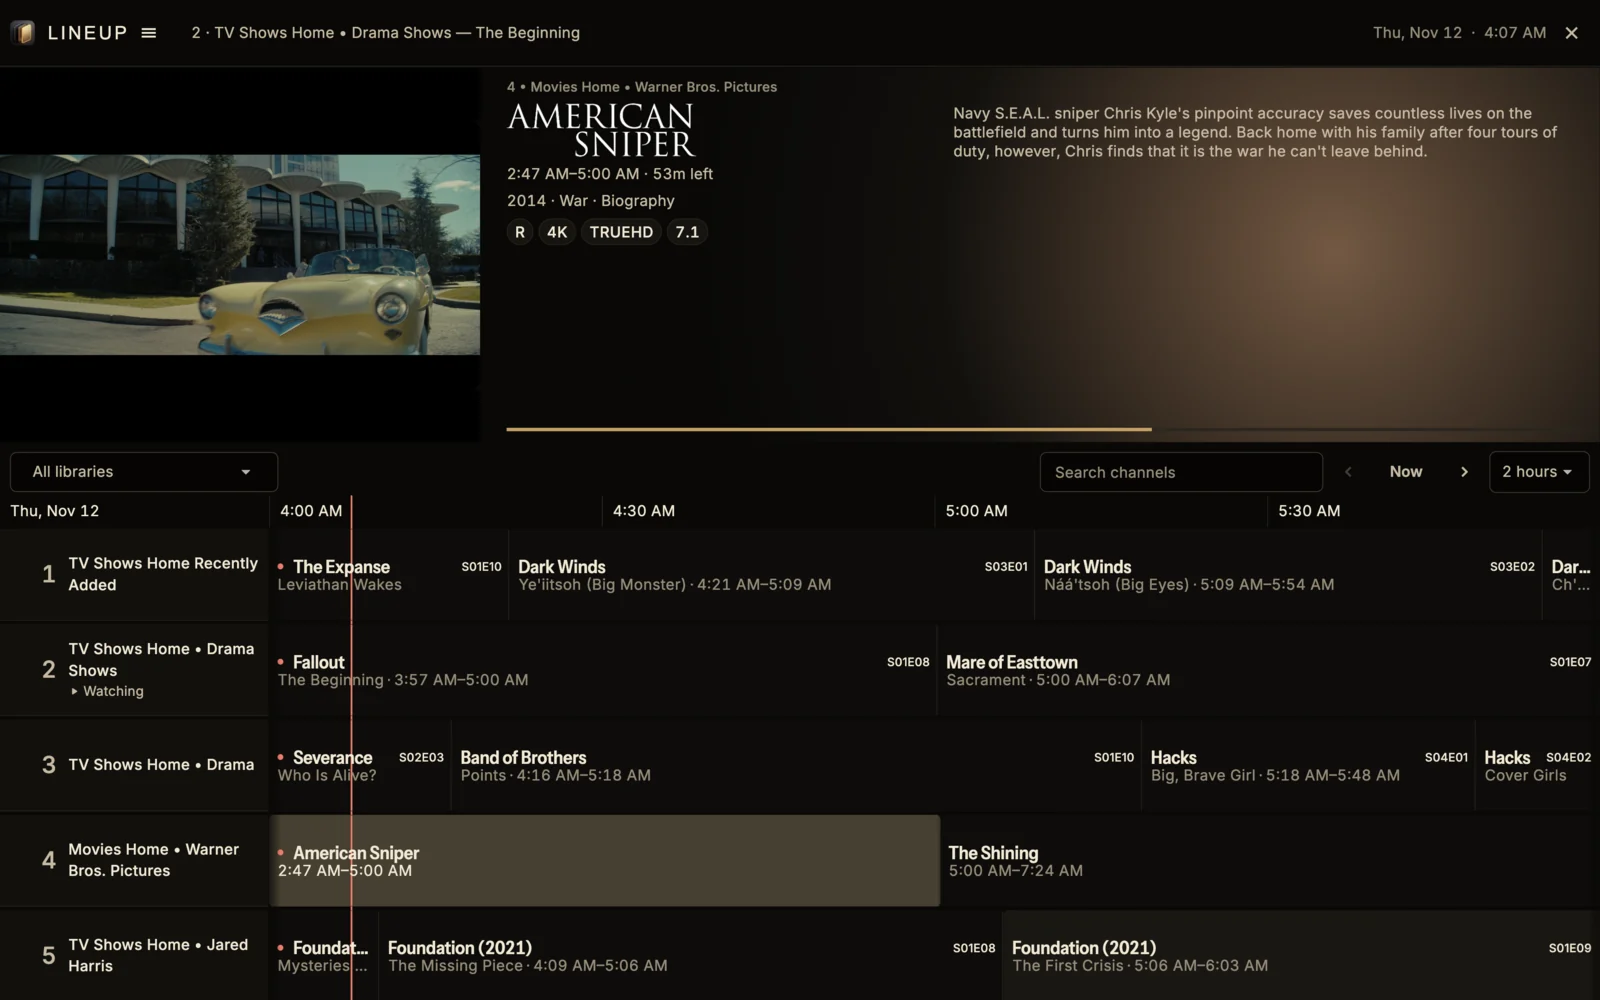
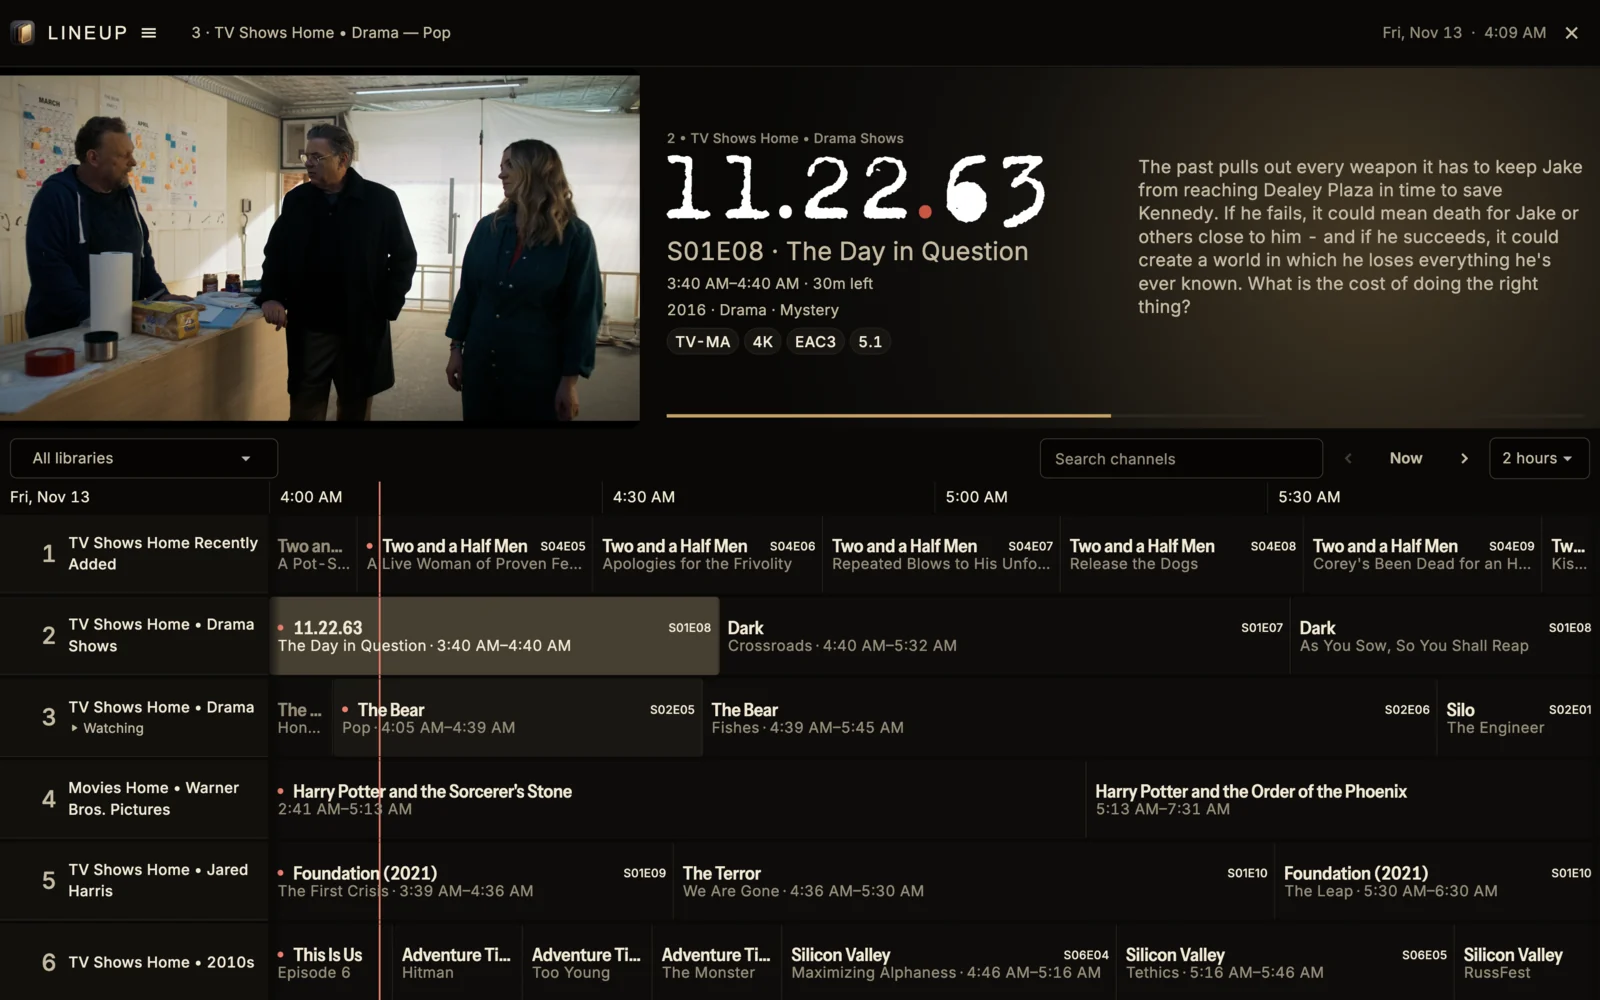
docs(site): retake the Mac Guide screenshots on the L40 layout
Replace the home hero and The Guide page screenshots with captures from the
L40 build on a MacBook Pro 16 (larger picture, six rows), and update their
alt text and capture record.

diff --git a/tool/docs/overrides/home.html b/tool/docs/overrides/home.html
@@ -23,7 +23,7 @@
       </div>
     </div>
     <figure class="lu-frame">
-      <img src="{{ 'images/home-guide.webp' | url }}" alt="Lineup Guide with Fallout playing in the corner and its details above a five-channel schedule." width="1600" height="1000">
+      <img src="{{ 'images/home-guide.webp' | url }}" alt="Lineup Guide with The Bear playing in the corner and its details above a six-channel schedule." width="1600" height="1000">
     </figure>
   </div>
 </section>

diff --git a/docs/images/README.md b/docs/images/README.md
@@ -9,9 +9,9 @@ This file is excluded from the site build.
 
 | File | Platform | Build | Screen and state |
 | --- | --- | --- | --- |
-| `home-guide.webp` | macOS 27, Apple Silicon, fullscreen window | Release build of `f7daf2c790d66a1020ebec4767efe2f93d91fa05` (Flutter 3.47.6) | Full Guide, channels 1–5; channel 2 tuned and playing in the picture-in-picture; its airing program focused |
-| `guide-live.webp` | macOS 27 | Same build | Same Guide page with channel 2 tuned ("Watching") and focus on an airing program on channel 4 |
-| `home-mini-guide.webp` | macOS 27 | Same build | Player with the Mini Guide open, focus on the channel above the tuned one |
+| `home-guide.webp` | macOS 27, Apple Silicon, MacBook Pro 16 full screen (1728×1084) | Release build of `feat/guide-l40` at `48ca282f` (Flutter 3.47.7), retaken 2026-11-13 | L40 Guide, channels 1–6; channel 3 tuned and playing in the picture-in-picture; its airing program focused |
+| `guide-live.webp` | macOS 27, MacBook Pro 16 full screen | Same L40 build | Same Guide page with channel 3 tuned ("Watching") and focus on an airing program on channel 2 |
+| `home-mini-guide.webp` | macOS 27 | Release build of `f7daf2c790d66a1020ebec4767efe2f93d91fa05` (Flutter 3.47.6) | Player with the Mini Guide open, focus on the channel above the tuned one |
 | `home-osd.webp` | macOS 27 | Same build | Player with the compact on-screen controls; subtitles off |
 | `home-now-playing.webp` | macOS 27 | Same build | Player with Now Playing expanded |
 | `home-air-check.webp` | macOS 27 | Same build | Channel Studio, unsaved custom draft "Animation Matinee" (discarded after capture) with the schedule preview |

diff --git a/docs/guides/guide.md b/docs/guides/guide.md
@@ -8,7 +8,7 @@ The Guide shows what's on every channel now and for the next few hours. The chan
 { .lead }
 
 <figure>
-<a href="../images/guide-live.webp"><img src="../images/guide-live.webp" alt="Lineup Guide with Fallout tuned on channel 2 and American Sniper on channel 4 focused." width="1600" height="1000"></a>
+<a href="../images/guide-live.webp"><img src="../images/guide-live.webp" alt="Lineup Guide with The Bear tuned on channel 3 and 11.22.63 on channel 2 focused." width="1600" height="1000"></a>
 <figcaption>The line across the schedule marks the current time. The highlighted program is the one you're inspecting, and <strong>Watching</strong> marks the channel you're tuned to.</figcaption>
 </figure>
 
